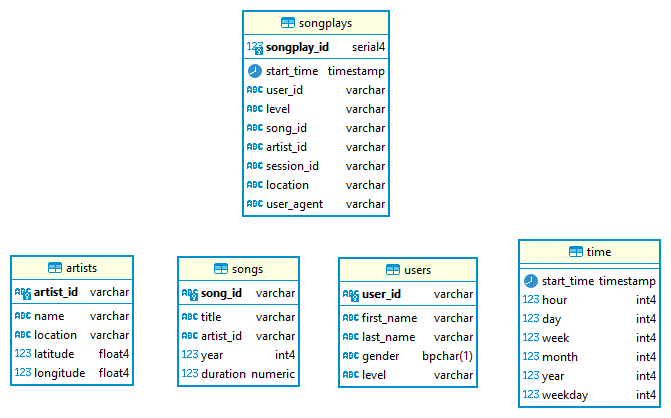
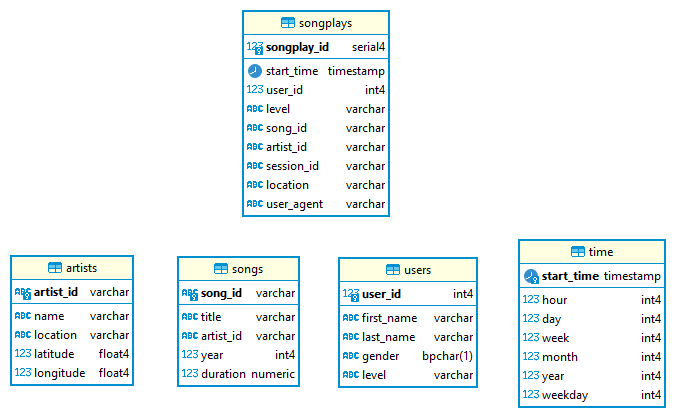
updated user_id data type, updated SQL formatting and added comment on songplays

diff --git a/sql_queries.py b/sql_queries.py
@@ -19,72 +19,236 @@ time_table_drop = "DROP TABLE IF EXISTS time;"
 # CREATE TABLES
 
 songplay_table_create = """
-    CREATE TABLE IF NOT EXISTS songplays (songplay_id SERIAL PRIMARY KEY, start_time timestamp , user_id varchar, level varchar, song_id varchar, artist_id varchar, session_id varchar, location varchar, user_agent varchar);
+    CREATE TABLE IF NOT EXISTS songplays 
+    (
+        songplay_id SERIAL PRIMARY KEY, 
+        start_time  TIMESTAMP , 
+        user_id     INT NOT NULL, 
+        level       VARCHAR, 
+        song_id     VARCHAR, 
+        artist_id   VARCHAR, 
+        session_id  VARCHAR NOT NULL, 
+        location    VARCHAR, 
+        user_agent  VARCHAR
+    );
 """
 
 user_table_create = """
-    CREATE TABLE IF NOT EXISTS users (user_id varchar PRIMARY KEY, first_name varchar, last_name varchar, gender char(1), level varchar);
+    CREATE TABLE IF NOT EXISTS users 
+    (
+        user_id     INT PRIMARY KEY, 
+        first_name  VARCHAR, 
+        last_name   VARCHAR, 
+        gender      CHAR(1), 
+        level       VARCHAR
+    );
 """
 
 song_table_create = """
-    CREATE TABLE IF NOT EXISTS songs (song_id varchar PRIMARY KEY, title varchar, artist_id varchar, year int, duration numeric);
+    CREATE TABLE IF NOT EXISTS songs 
+    (
+        song_id     VARCHAR PRIMARY KEY, 
+        title       VARCHAR, 
+        artist_id   VARCHAR NOT NULL, 
+        year        INT, 
+        duration    NUMERIC
+    );
 """
 
 artist_table_create = """
-    CREATE TABLE IF NOT EXISTS artists (artist_id varchar PRIMARY KEY, name varchar, location varchar, latitude real, longitude real);
+    CREATE TABLE IF NOT EXISTS artists 
+    (
+        artist_id   VARCHAR PRIMARY KEY, 
+        name        VARCHAR, 
+        location    VARCHAR, 
+        latitude    REAL, 
+        longitude   REAL
+    );
 """
 
 time_table_create = """
-    CREATE TABLE IF NOT EXISTS time (start_time timestamp, hour int, day int, week int, month int, year int, weekday int);
+    CREATE TABLE IF NOT EXISTS time 
+    (
+        start_time  TIMESTAMP PRIMARY KEY, 
+        hour        INT, 
+        day         INT, 
+        week        INT, 
+        month       INT, 
+        year        INT, 
+        weekday     INT
+    );
 """
 
 # INSERT RECORDS
 
 songplay_table_insert = """
-    INSERT INTO songplays (start_time, user_id, level, song_id, artist_id, session_id, location, user_agent)
-    VALUES (%s, %s, %s, %s, %s, %s, %s, %s)
+    INSERT INTO songplays 
+    (
+        start_time, 
+        user_id, 
+        level, 
+        song_id, 
+        artist_id, 
+        session_id, 
+        location, 
+        user_agent
+    )
+    VALUES 
+    (
+        %s, 
+        %s, 
+        %s, 
+        %s, 
+        %s, 
+        %s, 
+        %s, 
+        %s
+    )
 """
 
 user_table_insert = """
-    INSERT INTO users (user_id, first_name, last_name, gender, level)
-    VALUES (%s, %s, %s, %s, %s)
-    ON CONFLICT (user_id) 
+    INSERT INTO users 
+    (
+        user_id, 
+        first_name, 
+        last_name, 
+        gender, 
+        level
+    )
+    VALUES 
+    (
+        %s, 
+        %s, 
+        %s, 
+        %s, 
+        %s
+    )
+    ON CONFLICT 
+    (
+        user_id
+    ) 
     DO UPDATE
-    SET first_name = EXCLUDED.first_name, last_name = EXCLUDED.last_name, gender = EXCLUDED.gender, level = EXCLUDED.level;
+    SET 
+        first_name = EXCLUDED.first_name, 
+        last_name = EXCLUDED.last_name, 
+        gender = EXCLUDED.gender, 
+        level = EXCLUDED.level;
 """
 
 song_table_insert = """
-    INSERT INTO songs (song_id, title, artist_id, year, duration)
-    VALUES (%s, %s, %s, %s, %s)
-    ON CONFLICT (song_id) 
+    INSERT INTO songs 
+    (
+        song_id, 
+        title, 
+        artist_id, 
+        year, 
+        duration
+    )
+    VALUES 
+    (
+        %s, 
+        %s, 
+        %s, 
+        %s, 
+        %s
+    )
+    ON CONFLICT 
+    (
+        song_id
+    ) 
     DO NOTHING;
 """
 
 artist_table_insert = """
-    INSERT INTO artists (artist_id, name, location, latitude, longitude)
-    VALUES (%s, %s, %s, %s, %s)
-    ON CONFLICT (artist_id) 
+    INSERT INTO artists 
+    (
+        artist_id, 
+        name, 
+        location, 
+        latitude, 
+        longitude
+    )
+    VALUES 
+    (
+        %s, 
+        %s, 
+        %s, 
+        %s, 
+        %s
+    )
+    ON CONFLICT 
+    (
+        artist_id
+    ) 
     DO UPDATE
-    SET name = EXCLUDED.name, location = EXCLUDED.location, latitude = EXCLUDED.latitude, longitude = EXCLUDED.longitude;
+    SET 
+        name = EXCLUDED.name, 
+        location = EXCLUDED.location, 
+        latitude = EXCLUDED.latitude, 
+        longitude = EXCLUDED.longitude;
 """
 
 time_table_insert = """
-    INSERT INTO time (start_time, hour, day, week, month, year, weekday)
-    VALUES (%s, %s, %s, %s, %s, %s, %s)
+    INSERT INTO time 
+    (
+        start_time, 
+        hour, 
+        day, 
+        week, 
+        month, 
+        year, 
+        weekday
+    )
+    VALUES 
+    (
+        %s, 
+        %s, 
+        %s, 
+        %s, 
+        %s, 
+        %s, 
+        %s
+    )
+    ON CONFLICT 
+    (
+        start_time
+    ) 
+    DO NOTHING;
 """
 
 # FIND SONGS
 
 song_select = """
-    SELECT songs.song_id, songs.artist_id
-    FROM songs
-    INNER JOIN artists
-    ON songs.artist_id = artists.artist_id
-    WHERE songs.title=(%s) AND artists.name=(%s) AND songs.duration=(%s)
-    FETCH FIRST 1 ROWS ONLY;
+    SELECT 
+        songs.song_id, 
+        songs.artist_id
+    FROM 
+        songs
+    INNER JOIN 
+        artists
+    ON 
+        songs.artist_id = artists.artist_id
+    WHERE 
+        songs.title=(%s) 
+        AND artists.name=(%s) 
+        AND songs.duration=(%s)
+    FETCH first 1 ROWS only;
 """
 
 # QUERY LISTS
 
-create_table_queries = [songplay_table_create, user_table_create, song_table_create, artist_table_create, time_table_create]
-drop_table_queries = [songplay_table_drop, user_table_drop, song_table_drop, artist_table_drop, time_table_drop]
+create_table_queries = [
+    songplay_table_create,
+    user_table_create,
+    song_table_create,
+    artist_table_create,
+    time_table_create,
+]
+
+drop_table_queries = [
+    songplay_table_drop,
+    user_table_drop,
+    song_table_drop,
+    artist_table_drop,
+    time_table_drop,
+]

diff --git a/etl.py b/etl.py
@@ -25,14 +25,38 @@ def process_song_file(cur, filepath):
     df = pd.read_json(filepath, lines=True)
 
     # insert song record
-    song_data = df[["song_id", "title", "artist_id", "year", "duration"]].values[0].tolist()
+    song_data = (
+        df[
+            [
+                "song_id",
+                "title",
+                "artist_id",
+                "year",
+                "duration",
+            ]
+        ]
+        .values[0]
+        .tolist()
+    )
     try:
         cur.execute(song_table_insert, song_data)
     except psycopg2.Error as e:
         print(e)
 
     # insert artist record
-    artist_data = df[["artist_id", "artist_name", "artist_location", "artist_latitude", "artist_longitude"]].values[0].tolist()
+    artist_data = (
+        df[
+            [
+                "artist_id",
+                "artist_name",
+                "artist_location",
+                "artist_latitude",
+                "artist_longitude",
+            ]
+        ]
+        .values[0]
+        .tolist()
+    )
     try:
         cur.execute(artist_table_insert, artist_data)
     except psycopg2.Error as e:
@@ -66,7 +90,15 @@ def process_log_file(cur, filepath):
         t.dt.year,
         t.dt.weekday,
     )
-    column_labels = ("timestamp", "hour", "day", "week_of_year", "month", "year", "weekday")
+    column_labels = (
+        "timestamp",
+        "hour",
+        "day",
+        "week_of_year",
+        "month",
+        "year",
+        "weekday",
+    )
     time_dict = {column_labels[i]: time_data[i] for i in range(len(column_labels))}
     time_df = pd.DataFrame(time_dict)
 
@@ -74,7 +106,15 @@ def process_log_file(cur, filepath):
         cur.execute(time_table_insert, list(row))
 
     # load user table
-    user_df = df[["userId", "firstName", "lastName", "gender", "level"]]
+    user_df = df[
+        [
+            "userId",
+            "firstName",
+            "lastName",
+            "gender",
+            "level",
+        ]
+    ]
     user_df = user_df.drop_duplicates()
 
     # insert user records
@@ -97,7 +137,16 @@ def process_log_file(cur, filepath):
             songid, artistid = None, None
 
         # insert songplay record
-        songplay_data = (row.timestamp, row.userId, row.level, songid, artistid, row.sessionId, row.location, row.userAgent)
+        songplay_data = (
+            row.timestamp,
+            row.userId,
+            row.level,
+            songid,
+            artistid,
+            row.sessionId,
+            row.location,
+            row.userAgent,
+        )
         cur.execute(songplay_table_insert, songplay_data)
 
 

diff --git a/README.md b/README.md
@@ -6,7 +6,7 @@ The startup, Sparkify, is a music streaming app and wants to analyse what songs 
 
 ## Data model
 
-Data was normalized into a start schema with fact and dimention tables in order to use data for the analysis but also reuse data for future analysis.
+Data was normalized into a start schema with fact and dimention tables in order to use data for the analysis but also reuse data for future analysis. On the `songplays` table, there is only one row that mathces both `song_id` and `artist_id` as the provided dataset is only a subset of the larger dataset.
 
 ![Data model](images/diagram.png)
 
